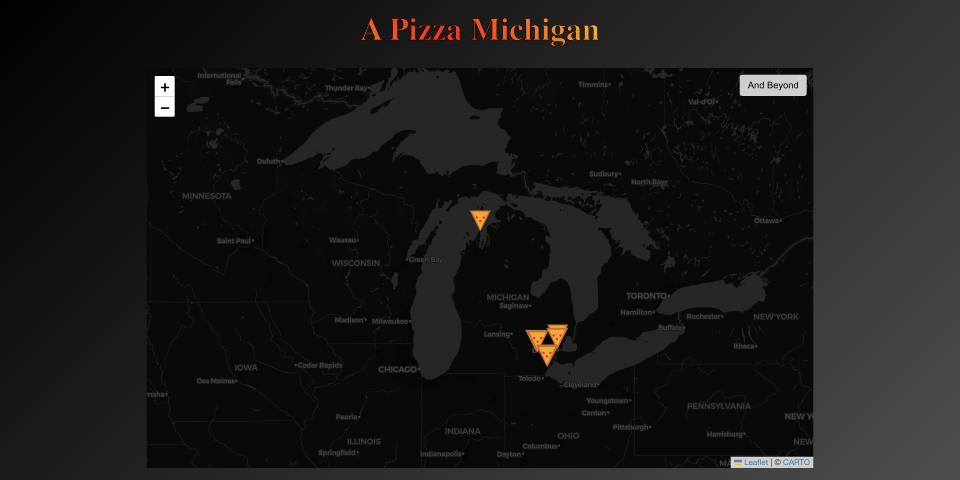
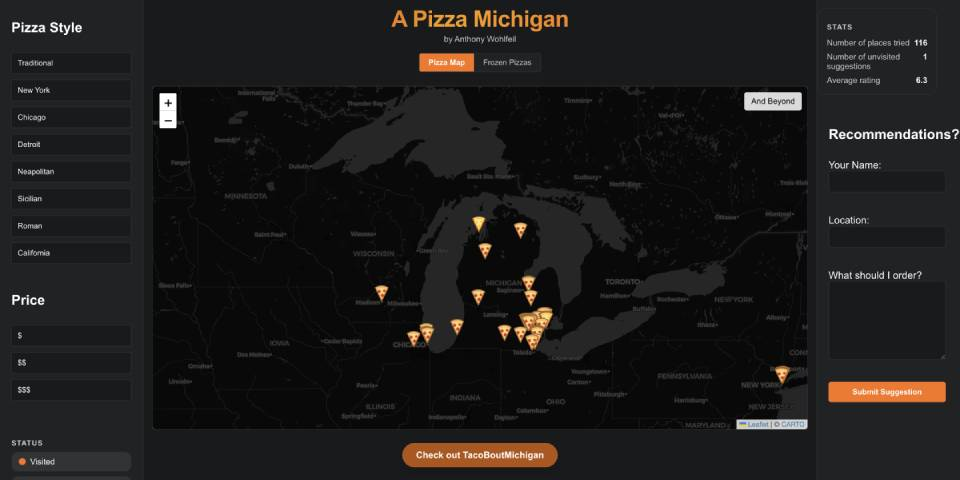
Update bio, travel, and projects pages

diff --git a/index.html b/index.html
@@ -56,8 +56,8 @@
 								<p>My name is Anthony Wohlfeil. I grew up in southeast Michigan and have always had a passion for science and a fascination with the latest, coolest technology. 
 								This love of technology and engineering is how I found myself studying Computer Engineering at the University of Michigan. I loved the versatility
 								of the major and the fact that there are infinitely many ways to improve lives through technology.</p>
-								<p>I currently work at Amazon Detroit as a Software Development Engineer. My current role at Amazon focuses on backend work to provide the best possible experience 
-								for our selling partners and developers via a large scale API platform. I'm currently teaching myself front end web development and exploring opportunities to 
+								<p>I formerly worked at Amazon Detroit as a Software Development Engineer, and am currently on a career sabbatical to pursue personal goals My previous role at Amazon focused on backend work to provide the best possible experience 
+								for selling partners and developers via a large scale API platform. I'm currently teaching myself front end web development and exploring opportunities to 
 								integrate AI into my work and life.</p>
 							</article>
 
@@ -72,19 +72,19 @@
 								<span class="image main" style="margin-top: 0; margin-bottom: 10px;">
 									<img src="images/apizzamichigan.jpg" alt="" />
 								</span>
-								<p>My friends have always joked about my love for pizza, and one convinced me to keep a review sheet of the pizzas I've tried. 
+								<p>My friends have always joked about my love for pizza, and one convinced me to keep a database of the pizzas I've tried. 
 									Eventually this website name came up in conversation and I thought it would be a fun side project. 
 									<a href="https://www.apizzamichigan.com" style="color:cyan;outline:0;border:none" focus="outline:none" target="_blank">You can find the website here.</a></p>
 
-								<h2>Resume Builder</h2>
+								<h2>Resume Revamped</h2>
 								<span class="image main" style="margin-top: 0; margin-bottom: 10px;">
 									<img src="images/resume_builder.jpg" alt="" />
 								</span>
-								<p>My first dive into CSS and Javascript, I'm working on a resume builder that can use different company themes to construct personalized documents.</p>
+								<p>I've had this idea for a resume builder for many years, and in my time off I've worked on developing it to help myself and others seeking jobs get a leg up on their search. You can sign up for the demo at https://resumerevamped.com.</p>
 								
 								<h2>Auction Notification Script</h2>
 								<span class="image main" style="margin-top: 0; margin-bottom: 10px;">
-									<img src="images/shopgoodwillscript.jpg" alt="" />
+									<img src="images/ans.jpg" alt="" />
 								</span>
 								<p>I wrote a script in Python that calls the backend API for ShopGoodWill and notifies me via email about new listings relevant to the search queries I've defined. It runs every couple hours on a Raspberry Pi and keeps a set of item ids to prevent repeat items from being sent in the emails.</p>
 
@@ -715,7 +715,7 @@
 							
 								<h1 class="year-heading">Earlier</h1>
 								<h3>Phoenix 2017</h3>
-								<h3>North Carolina 2014</h3>
+								<h3>Asheville 2014</h3>
 								<h3>Phoenix 2014</h3>
 								<h3>Philadelphia 2012</h3>
 								<h3>Washington DC 2012</h3>